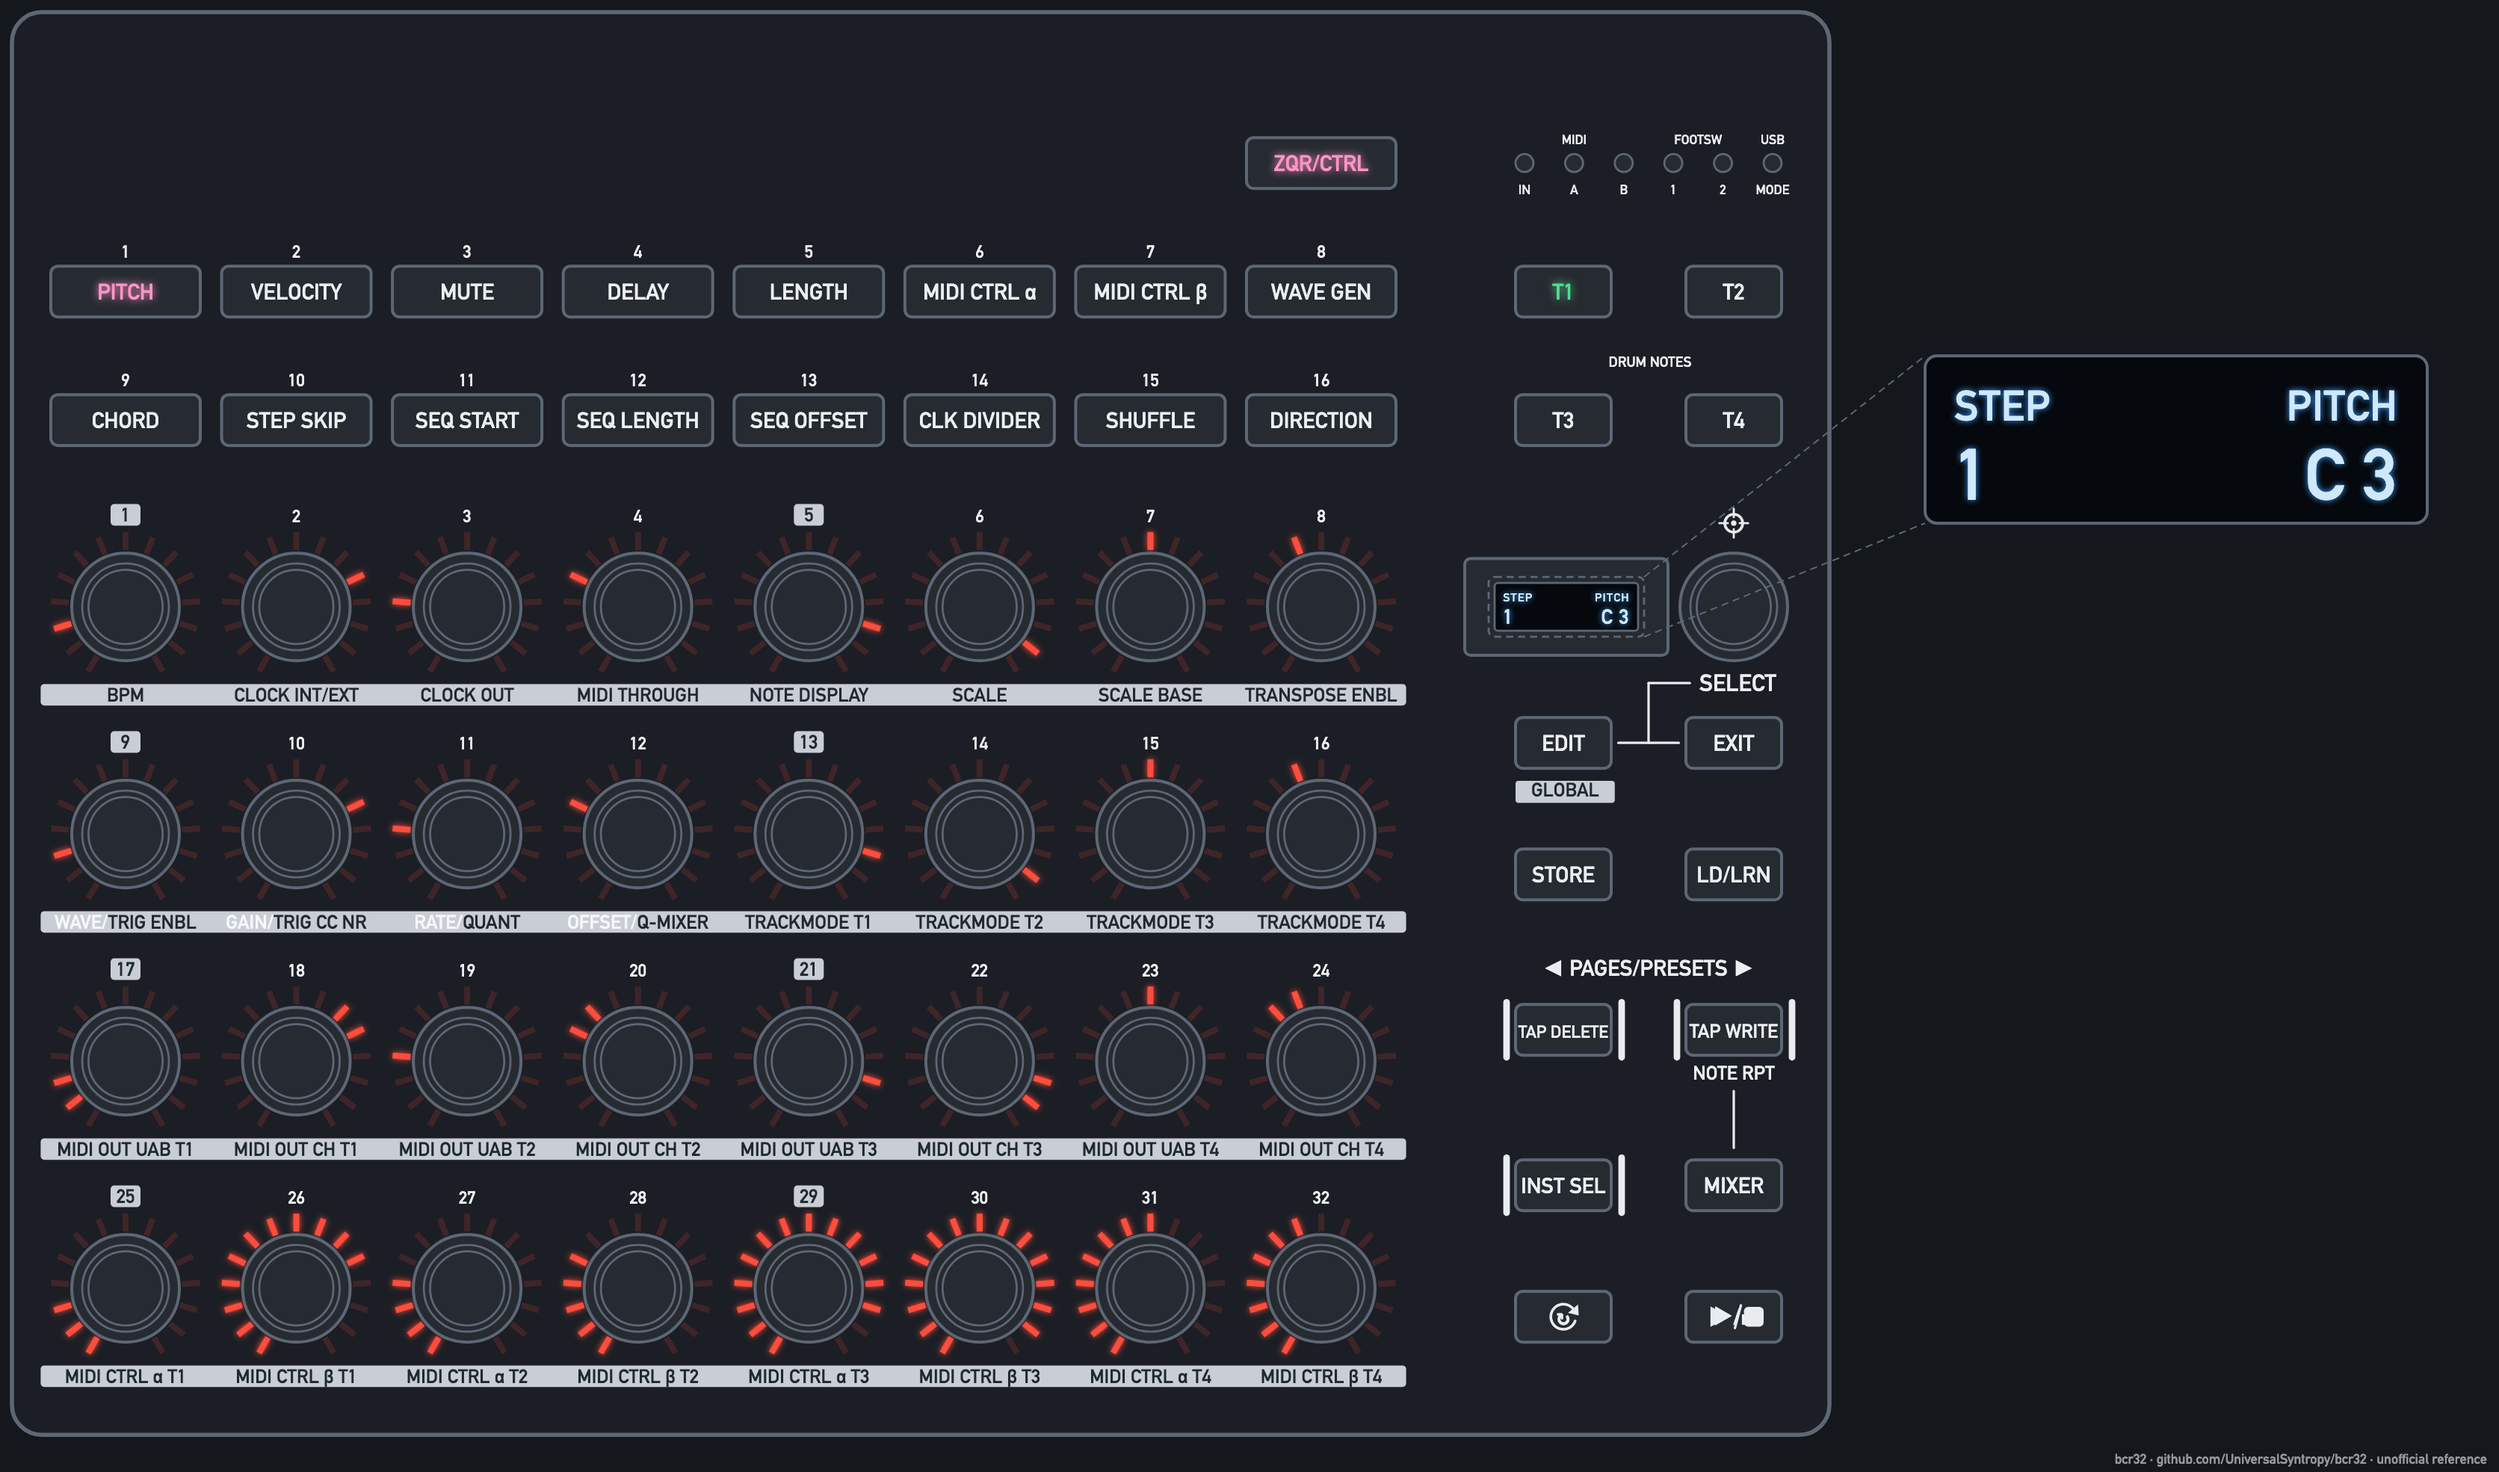
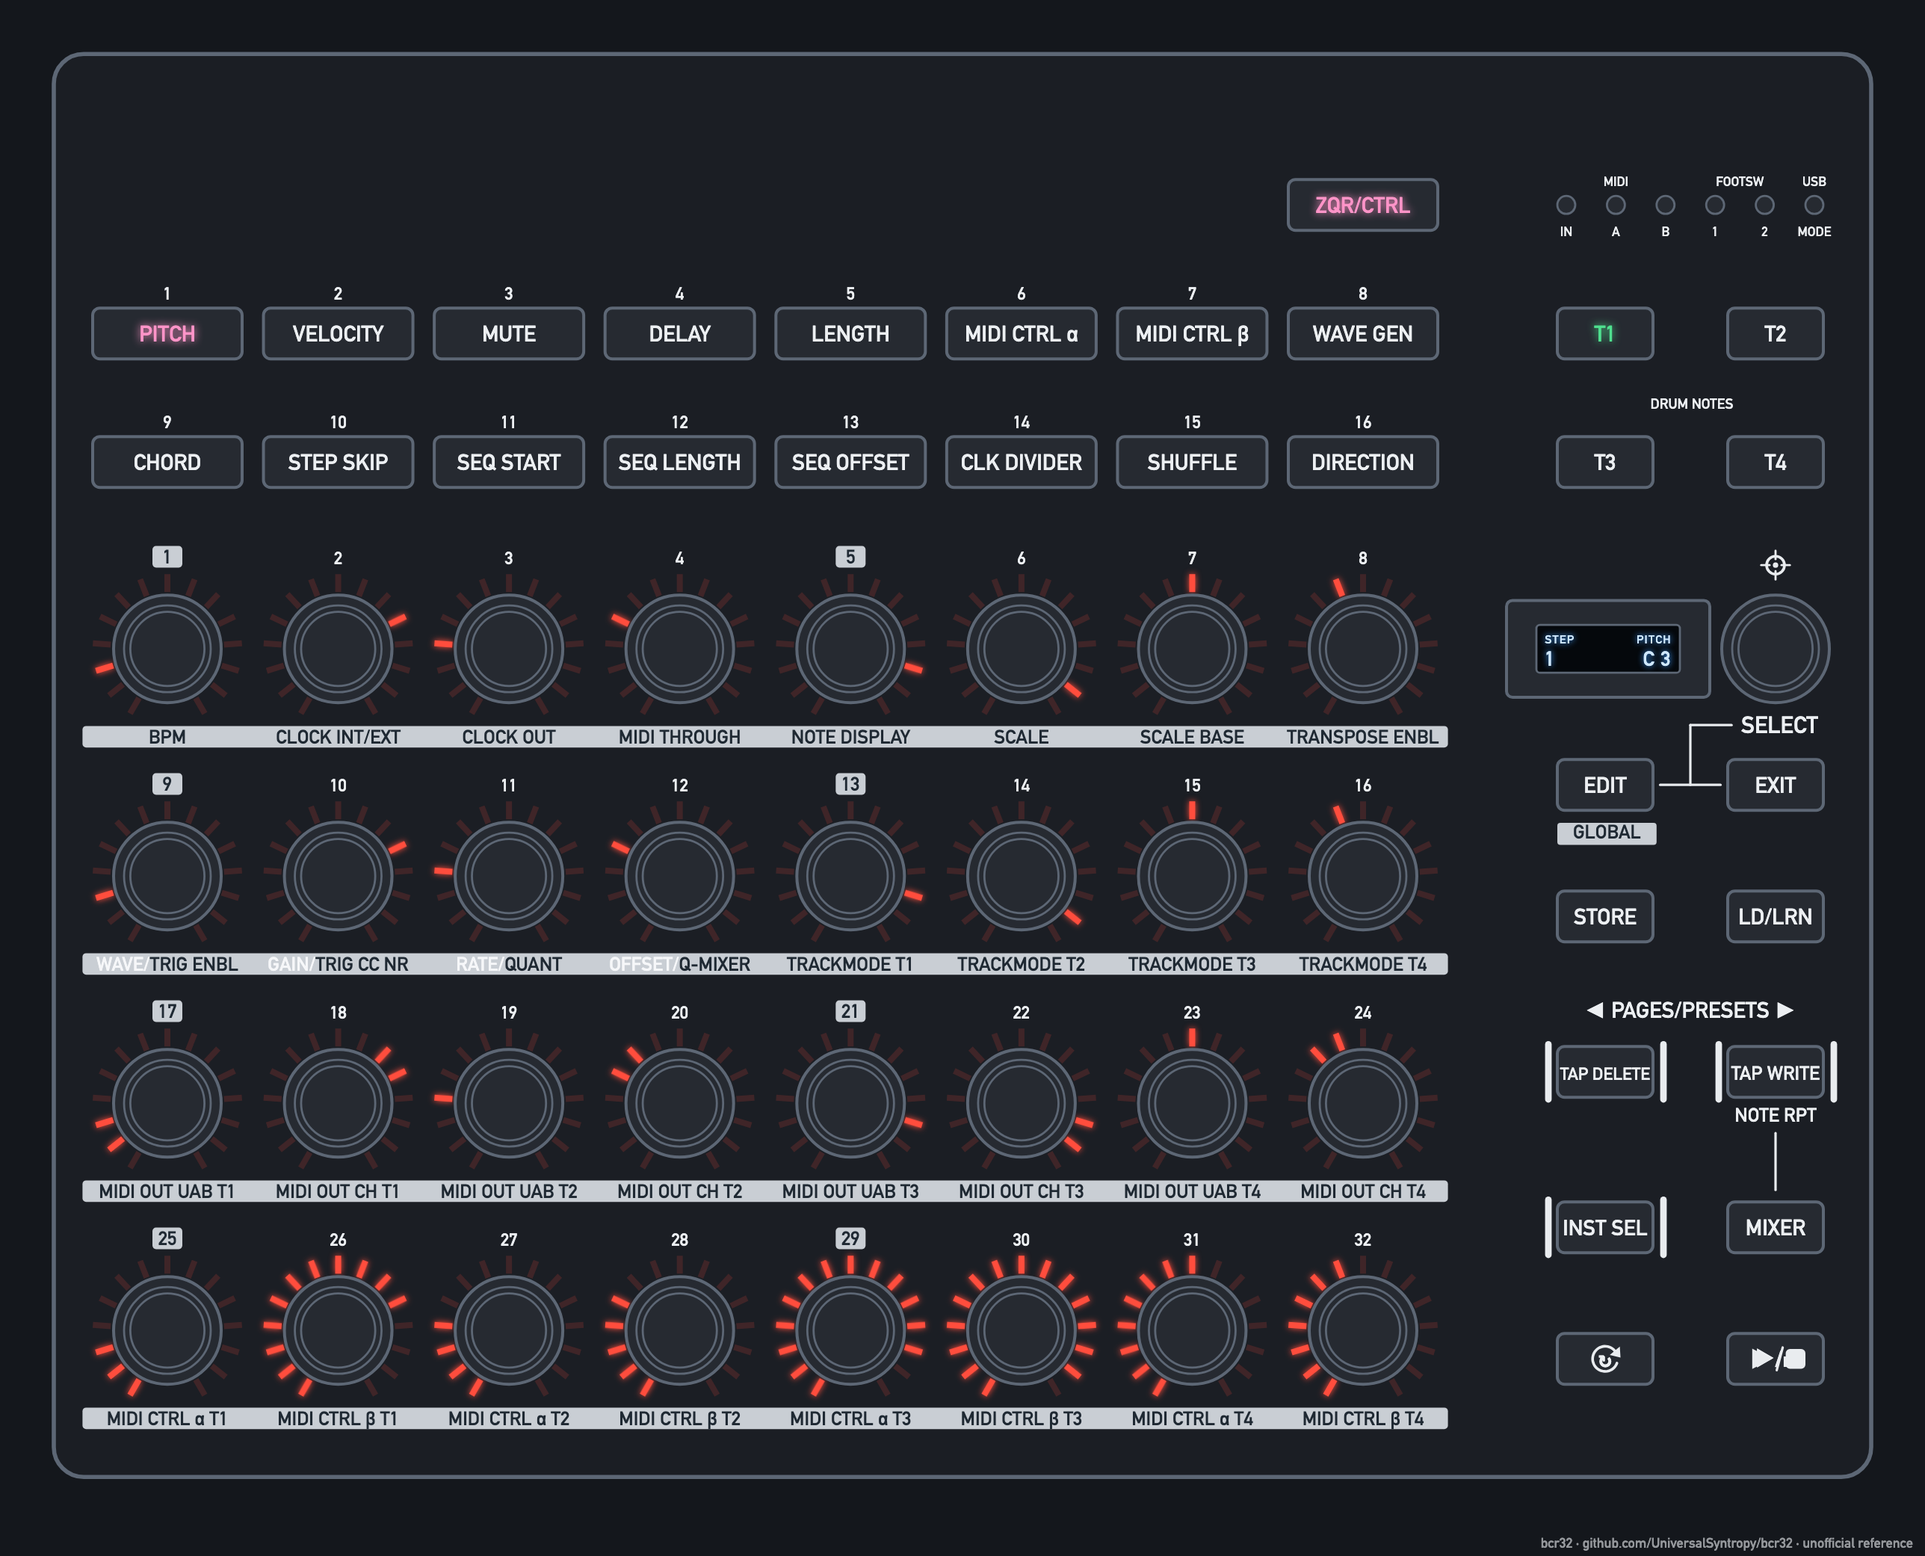
Hero figure: remove the display breakout and add margin
Figure 3-1 now shows the panel only, with empty space around the case.

diff --git a/README.md b/README.md
@@ -5,7 +5,7 @@ Unofficial documentation and tools for the Behringer BCR32 MIDI controller and s
 <a id="fig-3-1"></a>
 <picture>
   <source media="(prefers-color-scheme: dark)" srcset="docs/assets/figures/fig-3-1-hero-dark.png">
-  <img src="docs/assets/figures/fig-3-1-hero-light.png" alt="Top view of the BCR32 with printed legends, lit buttons, lit knob rings and an enlarged view of the display." width="100%">
+  <img src="docs/assets/figures/fig-3-1-hero-light.png" alt="Top view of the BCR32 with printed legends, lit buttons, lit knob rings and the display." width="100%">
 </picture>
 
 **Figure 3-1.** The BCR32 top panel with PITCH selected. [List of figures](docs/manual/figures.md)

diff --git a/docs/manual/03-top-panel-control-map.md b/docs/manual/03-top-panel-control-map.md
@@ -107,7 +107,7 @@ The label "◄ PAGES/PRESETS ►" sits above B63/B64.
 <a id="fig-3-1"></a>
 <picture>
   <source media="(prefers-color-scheme: dark)" srcset="../assets/figures/fig-3-1-hero-dark.png">
-  <img src="../assets/figures/fig-3-1-hero-light.png" alt="Top view of the BCR32 with printed legends, lit buttons, lit knob rings and an enlarged view of the display." width="100%">
+  <img src="../assets/figures/fig-3-1-hero-light.png" alt="Top view of the BCR32 with printed legends, lit buttons, lit knob rings and the display." width="100%">
 </picture>
 
 **Figure 3-1.** The BCR32 top panel with PITCH selected. [List of figures](figures.md)
